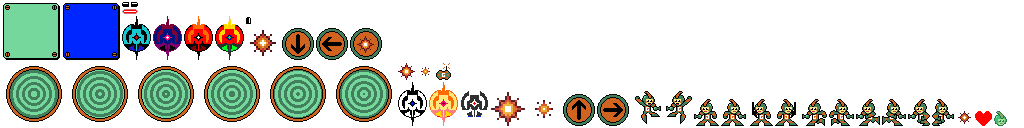
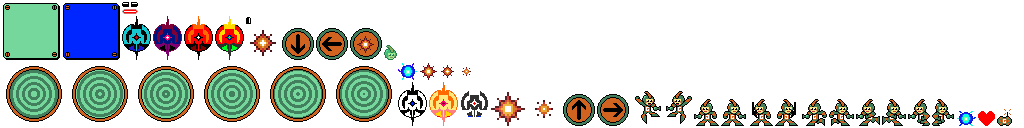
add enemy plasma

Changed region(s): [[0.375, 0.5, 0.4688, 0.625], [0.9375, 0.8438, 1.0, 1.0], [0.375, 0.3438, 0.4062, 0.4688]]

diff --git a/core/src/com/x555l/gigagal/entities/bullets/enemyBullets/EnemyBullet.java b/core/src/com/x555l/gigagal/entities/bullets/enemyBullets/EnemyBullet.java
@@ -1,26 +1,27 @@
 package com.x555l.gigagal.entities.bullets.enemyBullets;
 
-import com.badlogic.gdx.graphics.g2d.SpriteBatch;
+import com.badlogic.gdx.graphics.g2d.Animation;
 import com.badlogic.gdx.graphics.g2d.TextureRegion;
 import com.badlogic.gdx.math.Vector2;
 import com.x555l.gigagal.entities.bullets.Bullet;
 import com.x555l.gigagal.level.Level;
-import com.x555l.gigagal.util.Constants;
 
 /**
  * Abstract class for all enemies' bullets
  */
 
 public abstract class EnemyBullet extends Bullet {
-    float angle;
 
     /**
-     * @param x:       x coordinate of bullet
-     * @param y:       y coordinate of bullet
-     * @param targetX: x coordinate of the target of the bullet
-     * @param targetY: y coordinate of the target of the bullet
-     * @param center:  center of the bullet, relative to (x,y) origin
-     * @param speed:   bullet's speed (px/second)
+     * @param x:             x coordinate of bullet
+     * @param y:             y coordinate of bullet
+     * @param targetX:       x coordinate of the target of the bullet
+     * @param targetY:       y coordinate of the target of the bullet
+     * @param center:        center of the bullet, relative to (x,y) origin
+     * @param speed:         bullet's speed (px/second)
+     * @param damage         : damage caused by bullet
+     * @param level          : contains other entities for bullet to interact
+     * @param textureRegion: texture for static bullet image
      */
     EnemyBullet(float x, float y, float targetX, float targetY, Vector2 center, float speed, int damage, TextureRegion textureRegion, Level level) {
         super(x, y, damage, center, level);
@@ -30,19 +31,16 @@ public abstract class EnemyBullet extends Bullet {
         angle = (float) (Math.atan2(velocity.y, velocity.x) / Math.PI * 180);
     }
 
-    @Override
-    public void render(SpriteBatch batch) {
-        batch.draw(
-                textureRegion,
-                position.x,
-                position.y,
-                center.x,
-                center.y,
-                textureRegion.getRegionWidth(),
-                textureRegion.getRegionHeight(),
-                1,
-                1,
-                angle
-        );
+    /**
+     * Overloaded method for animated bullets
+     *
+     * @param animation: texture animation
+     */
+    EnemyBullet(float x, float y, float targetX, float targetY, Vector2 center, float speed, int damage, Animation<TextureRegion> animation, Level level) {
+        super(x, y, damage, center, level);
+        this.animation = animation;
+
+        velocity = new Vector2(targetX - x, targetY - y).setLength(speed);
+        angle = (float) (Math.atan2(velocity.y, velocity.x) / Math.PI * 180);
     }
 }

diff --git a/core/src/com/x555l/gigagal/entities/bullets/Bullet.java b/core/src/com/x555l/gigagal/entities/bullets/Bullet.java
@@ -1,10 +1,13 @@
 package com.x555l.gigagal.entities.bullets;
 
+import com.badlogic.gdx.graphics.g2d.Animation;
 import com.badlogic.gdx.graphics.g2d.SpriteBatch;
 import com.badlogic.gdx.graphics.g2d.TextureRegion;
 import com.badlogic.gdx.math.Vector2;
+import com.badlogic.gdx.utils.TimeUtils;
 import com.x555l.gigagal.entities.Platform;
 import com.x555l.gigagal.level.Level;
+import com.x555l.gigagal.util.Util;
 
 /**
  * Abstract class for all bullets
@@ -16,10 +19,13 @@ public abstract class Bullet {
 
     public int damage;
     public boolean active;
+    private long startTime;
+    protected float angle;
 
     protected Level level;
     protected TextureRegion textureRegion;
-    protected Vector2 center;
+    protected Animation<TextureRegion> animation;
+    private Vector2 center;
 
     protected Bullet(float x, float y, int damage, Vector2 center, Level level) {
         this.position = new Vector2(x, y);
@@ -28,12 +34,15 @@ public abstract class Bullet {
         this.level = level;
 
         active = true;
+        startTime = TimeUtils.nanoTime();
+        angle = 0;
     }
 
     public void update(float delta) {
         position.mulAdd(velocity, delta);
         checkOutOfScreen();
         checkHitPlatform();
+        updateTextureRegion();
     }
 
     /**
@@ -64,11 +73,26 @@ public abstract class Bullet {
         }
     }
 
+    /**
+     * Ensure consistency between animated & static bullet image
+     */
+    private void updateTextureRegion() {
+        if (animation != null)
+            textureRegion = animation.getKeyFrame(Util.secondsSince(startTime));
+    }
+
     public void render(SpriteBatch batch) {
         batch.draw(
                 textureRegion,
-                position.x - center.x,
-                position.y - center.y
+                position.x,
+                position.y,
+                center.x,
+                center.y,
+                textureRegion.getRegionWidth(),
+                textureRegion.getRegionHeight(),
+                1,
+                1,
+                angle
         );
     }
 }

diff --git a/core/src/com/x555l/gigagal/util/Assets.java b/core/src/com/x555l/gigagal/util/Assets.java
@@ -168,6 +168,7 @@ public class Assets implements Disposable, AssetErrorListener {
         public AtlasRegion upBullet;
 
         public AtlasRegion enemyLaser;
+        public Animation<TextureRegion> enemyPlasma;
 
         BulletAssets(TextureAtlas atlas) {
             leftBullet = atlas.findRegion(Constants.GGG_BULLET_LEFT);
@@ -175,6 +176,15 @@ public class Assets implements Disposable, AssetErrorListener {
             upBullet = atlas.findRegion(Constants.GGG_BULLET_UP);
 
             enemyLaser = atlas.findRegion(Constants.ENEMY_BULLET_LASER);
+
+            Array<TextureRegion> textureRegionArray = new Array<TextureRegion>();
+            textureRegionArray.add(atlas.findRegion(Constants.ENEMY_BULLET_PLASMA + "1"));
+            textureRegionArray.add(atlas.findRegion(Constants.ENEMY_BULLET_PLASMA + "2"));
+            enemyPlasma = new Animation<TextureRegion>(
+                    Constants.ENEMY_BULLET_PLASMA_FRAME_DURATION,
+                    textureRegionArray,
+                    Animation.PlayMode.LOOP_PINGPONG
+            );
         }
     }
 

diff --git a/core/src/com/x555l/gigagal/util/Constants.java b/core/src/com/x555l/gigagal/util/Constants.java
@@ -1,6 +1,5 @@
 package com.x555l.gigagal.util;
 
-
 import com.badlogic.gdx.graphics.Color;
 import com.badlogic.gdx.math.Vector2;
 
@@ -118,8 +117,15 @@ public class Constants {
     // laser
     static final String ENEMY_BULLET_LASER = "laser";
     public static final Vector2 ENEMY_BULLET_LASER_CENTER = new Vector2(8, 3);
-    public static final int ENEMY_BULLET_LASER_DAMAGE = 2;
+    public static final int ENEMY_BULLET_LASER_DAMAGE = 1;
     public static final float ENEMY_BULLET_LASER_SPEED = 150;
+    // plasma
+    static final String ENEMY_BULLET_PLASMA = "plasma-";
+    public static final Vector2 ENEMY_BULLET_PLASMA_CENTER = new Vector2(10, 7);
+    public static final int ENEMY_BULLET_PLASMA_DAMAGE = 2;
+    public static final float ENEMY_BULLET_PLASMA_SPEED = 120;
+    public static final float ENEMY_BULLET_PLASMA_FRAME_DURATION = 0.1f;
+
 
     // explosion
     static final String EXPLOSION_SMALL = "explosion-small";

diff --git a/core/src/com/x555l/gigagal/entities/enemies/ShootEnemy.java b/core/src/com/x555l/gigagal/entities/enemies/ShootEnemy.java
@@ -4,6 +4,7 @@ import com.badlogic.gdx.math.Vector2;
 import com.badlogic.gdx.utils.TimeUtils;
 import com.x555l.gigagal.entities.Platform;
 import com.x555l.gigagal.entities.bullets.enemyBullets.EnemyLaser;
+import com.x555l.gigagal.entities.bullets.enemyBullets.EnemyPlasma;
 import com.x555l.gigagal.level.Level;
 import com.x555l.gigagal.util.Assets;
 import com.x555l.gigagal.util.Constants;
@@ -35,7 +36,7 @@ public class ShootEnemy extends PatrolPlatformEnemy {
     void attack(float delta, Vector2 target) {
         if (readyToAttack()) {
             lastTimeAttack = TimeUtils.nanoTime();
-            level.getBullets().add(new EnemyLaser(
+            level.getBullets().add(new EnemyPlasma(
                     position,
                     level.getGigagal().position.cpy().sub(0, 5),
                     level

diff --git a/core/src/com/x555l/gigagal/entities/bullets/enemyBullets/EnemyPlasma.java b/core/src/com/x555l/gigagal/entities/bullets/enemyBullets/EnemyPlasma.java
@@ -1,0 +1,22 @@
+package com.x555l.gigagal.entities.bullets.enemyBullets;
+
+import com.badlogic.gdx.math.Vector2;
+import com.x555l.gigagal.level.Level;
+import com.x555l.gigagal.util.Assets;
+import com.x555l.gigagal.util.Constants;
+
+public class EnemyPlasma extends EnemyBullet {
+    public EnemyPlasma(Vector2 position, Vector2 target, Level level) {
+        super(
+                position.x,
+                position.y,
+                target.x,
+                target.y,
+                Constants.ENEMY_BULLET_PLASMA_CENTER,
+                Constants.ENEMY_BULLET_PLASMA_SPEED,
+                Constants.ENEMY_BULLET_PLASMA_DAMAGE,
+                Assets.instance.bullet.enemyPlasma,
+                level
+        );
+    }
+}
